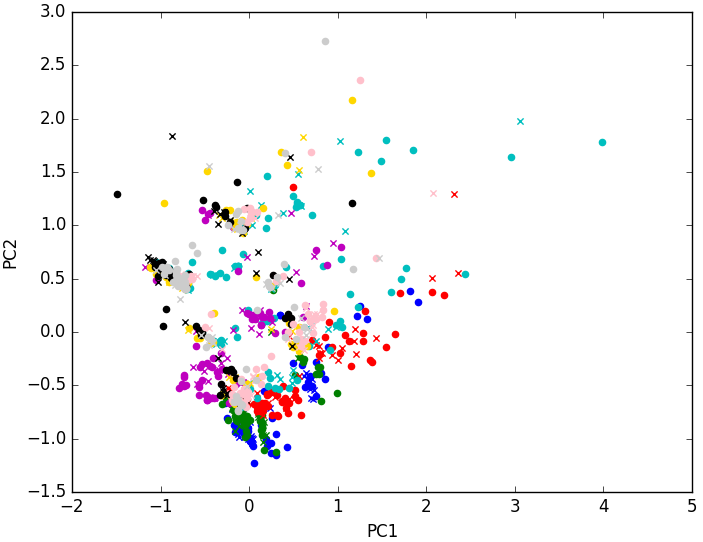
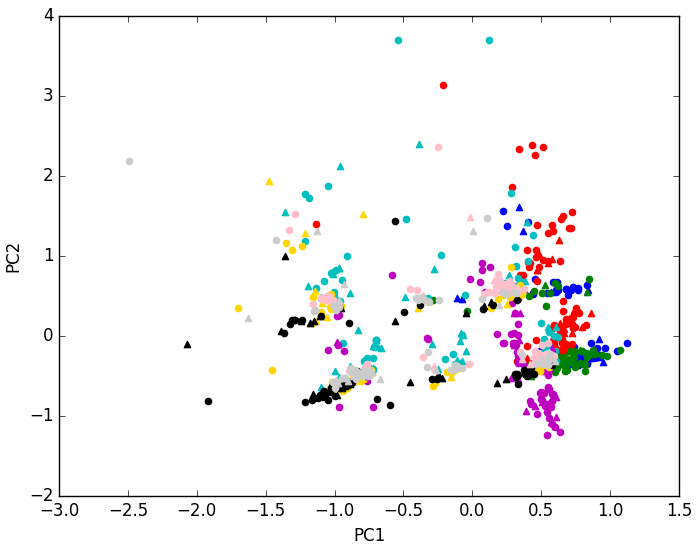
mas informe parte1

diff --git a/TP2/informe/parte1.tex b/TP2/informe/parte1.tex
@@ -100,9 +100,13 @@ optional arguments:
   -n N        Cantidad maxima de epochs
 \end{lstlisting}
 
-Ejemplo: 
+No hace falta especificar una cantidad máxima de épocas, por default es 100.
 
-\noindent\texttt{python hbtrain.py -p net.o -x ds/tp2\_training\_dataset.csv -n 100} \\
+Ejemplos: 
+
+\noindent\texttt{python hbtrain.py -p net.o -x ds/tp2\_training\_dataset.csv}
+
+\noindent\texttt{python hbtrain.py -p net.o -x ds/tp2\_training\_dataset.csv -n 50} \\
 
 \textbf{Para cargar datos de validación y visualizar contra los de entrenamiento:}
 
@@ -119,7 +123,7 @@ optional arguments:
 
 Ejemplo:
 
-\noindent\texttt{python hbreduction.py -p net.o -x ds/tp2\_testing\_dataset.csv} \\
+\noindent\texttt{python hbreduction.py -p net.o -x ds/tp2\_testing\_dataset.csv} 
 
 \subsubsection{Requerimientos}
 
@@ -131,19 +135,12 @@ Python:
 
 \subsection{Resultados}
 
-A continuación, se pueden observar representaciones gráficas de las posiciones en el espacio $\mathbb{R}^3$ que el modelo le asigna a cada documento, con la red entrenada con 600 datos y 300 datos de validación.
+A continuación, se pueden observar representaciones gráficas de los datos reducidos en el espacio $\mathbb{R}^3$ y $\mathbb{R}^2$ que el modelo le asigna a cada documento, con la red entrenada con 600 datos y 300 datos de validación.
 
 \subsubsection{Oja}
 
-\begin{figure}[ht!]
-	\centering
-	\includegraphics[width=0.9\linewidth]{img/parte1-vista3d-oja.png}
-
-	\caption{Vista 3d de datos reducidos a tres dimensiones con regla Oja}
-\end{figure}
-
 \begin{figure}[ht!]	
-	\begin{subfigure}[b]{0.5\textwidth}
+	\begin{subfigure}[b]{0.49\textwidth}
 		\includegraphics[width=\linewidth]{img/oja/3dim-pc1-pc2.png}
 	\end{subfigure}%
 	~
@@ -159,15 +156,24 @@ A continuación, se pueden observar representaciones gráficas de las posiciones
 	\begin{subfigure}[b]{0.5\textwidth}
 		\includegraphics[width=\linewidth]{img/oja/3dim-pc2-pc3.png}
 	\end{subfigure}%
-	\caption{Vistas de dos dimensiones}
+	\caption{Vistas de dos dimensiones con regla Oja}
 \end{figure}
-
-
-\subsubsection{Sanger}
 
 \begin{figure}[ht!]
 	\centering
-	\includegraphics[width=0.9\linewidth]{img/parte1-vista3d-sanger.png}
+	\includegraphics[width=0.8\linewidth]{img/parte1-vista3d-oja.png}
+
+	\caption{Vista 3d de datos reducidos a tres dimensiones con regla Oja}
+\end{figure}
+
+\newpage
+\subsubsection{Sanger}
+
+
+
+\begin{figure}[ht!]
+	\centering
+	\includegraphics[width=0.8\linewidth]{img/parte1-vista3d-sanger.png}
 
 	\caption{Vista 3d de datos reducidos a tres dimensiones con regla Sanger}
 \end{figure}
@@ -188,16 +194,89 @@ A continuación, se pueden observar representaciones gráficas de las posiciones
 	\begin{subfigure}[b]{0.5\textwidth}
 		\includegraphics[width=\linewidth]{img/sanger/3dim-pc2-pc3.png}
 	\end{subfigure}%
-	\caption{Vistas de dos dimensiones}
+	\caption{Vistas de dos dimensiones con regla Sanger}
+\end{figure}
+
+
+\newpage
+
+\subsection{Conclusiones}
+
+Observando las representaciones gráficas en la sección de resultados obtenidas con el modelo de red propuesto de 3 unidades de salida, podemos concluir que este modelo de red no resulta bueno para la clasificación de estos documentos. Los datos reducidos de las distintas categorías no se diferencian bien. Esto se debe a que reducimos a sólo 3 dimensiones, tenemos 9 categorías y, además, que el número de categoría de cada documento corresponde a la actividad principal de la empresa, no necesariamente la única. 
+
+Para obtener mejores resultados, proponemos un modelo de red con 9 unidades de salida. Si bien esto complica la visualización de los datos reducidos, ya que tendríamos 9 dimensiones, se puede hacer una representación gráfica en dos dimensiones de cada par de componentes principales y analizar los datos en conjunto.
+
+Con este modelo propuesto obtuvimos, por ejemplo, los siguientes resultados con Sanger, observando primero los gráficos en dos dimensiones de cada par de componentes y eligiendo posteriormente 3 componentes para visualizar en conjunto.\\
+
+\begin{figure}[ht!]	
+	\begin{subfigure}[b]{0.5\textwidth}
+		\includegraphics[width=\linewidth]{img/sanger/9dim-COLLAGE1}
+	\end{subfigure}%
+	~
+	\begin{subfigure}[b]{0.5\textwidth}
+		\includegraphics[width=\linewidth]{img/sanger/9dim-COLLAGE2}
+	\end{subfigure}%
+
+\end{figure}
+
+\begin{figure}[ht!]	
+	\begin{subfigure}[b]{0.5\textwidth}
+		\includegraphics[width=\linewidth]{img/sanger/9dim-COLLAGE3}
+	\end{subfigure}%
+	~
+	\begin{subfigure}[b]{0.5\textwidth}
+		\includegraphics[width=\linewidth]{img/sanger/9dim-COLLAGE4}
+	\end{subfigure}%
+
+\end{figure}
+
+\begin{figure}[ht!]	
+	~\centering
+	\begin{subfigure}[b]{0.5\textwidth}
+		\includegraphics[width=\linewidth]{img/sanger/9dim-COLLAGE5}
+	\end{subfigure}%
+	\caption{Vistas de dos dimensiones con regla Sanger}
+\end{figure}
+
+
+\begin{figure}[ht!]	
+	\begin{subfigure}[b]{0.5\textwidth}
+		\includegraphics[width=\linewidth]{img/sanger/9dim-pc5-pc7.png}
+	\end{subfigure}%
+	~
+	\begin{subfigure}[b]{0.5\textwidth}
+		\includegraphics[width=\linewidth]{img/sanger/9dim-pc5-pc8.png}
+	\end{subfigure}%
+
+\end{figure}
+
+\begin{figure}[ht!]	
+	~\centering
+	\begin{subfigure}[b]{0.5\textwidth}
+		\includegraphics[width=\linewidth]{img/sanger/9dim-pc7-pc8.png}
+	\end{subfigure}%
+	\caption{Vistas elegidas de dos dimensiones con regla Sanger con componentes principales 5, 7 y 8}
+\end{figure}
+
+
+\begin{figure}[ht!]
+	\centering
+	\includegraphics[width=0.85\linewidth]{img/parte1-vista3d-sanger-9dim1.png}
+
+\end{figure}
+
+\begin{figure}[ht!]
+	\centering
+	\includegraphics[width=0.85\linewidth]{img/parte1-vista3d-sanger-9dim2.png}
+
+\end{figure}
+
+\begin{figure}[ht!]
+	\centering
+	\includegraphics[width=0.85\linewidth]{img/parte1-vista3d-sanger-9dim3.png}
+
 \end{figure}
 
 
 
-\subsection{Conslusiones}
-
-Observando las representaciones gráficas en la sección de resultados de los datos reducidos obtenidos con el modelo de red propuesto de 3 unidades de salida, podemos concluir que este modelo de red no resulta bueno para la clasificación de estos documentos. Los datos reducidos de las distintas categorías no se diferencian bien. Esto se debe a que reducimos a sólo 3 dimensiones, tenemos 9 categorías y, además, que el número de categoría de cada documento corresponde a la actividad principal de la empresa, no necesariamente la única. 
-
-Para obtener mejores resultados, proponemos un modelo de red con 9 unidades de salida. Si bien esto complica la visualización de los datos reducidos, ya que tendríamos 9 dimensiones, se puede hacer una representación gráfica en dos dimensiones de cada par de componentes principales y analizar los datos en conjunto.
-
-
-
+Se puede observar que obtuvimos una mejora respecto a la reducción de 3 dimensiones, en estos últimos resultados los datos reducidos de las distintas categorías se pueden diferenciar mejor en forma de ''nubes''.

diff --git a/TP2/tests1.py b/TP2/tests1.py
@@ -12,7 +12,7 @@ fs, ls =  loader.LoadData("ds/tp2_training_dataset.csv")
 epochs = 500
 lrcons = 0.07
 eps = 0.05
-noutputs = 3
+noutputs = 9
 
 HB = HebbianNN(len(fs[0]), noutputs, 0.5)
 train_fs = fs[:600]
@@ -40,7 +40,7 @@ reduced_ds_val = [ [data[0]] + data[1].tolist() for data in zip(ls[600:],outputs
 
 # 3d
 
-plot3d(reduced_ds_train, reduced_ds_val)
+plot3d(reduced_ds_train, reduced_ds_val,1,2,3)
 
 # plots 2d
 
@@ -51,12 +51,16 @@ data_x_cat_val = get_data_x_cat(reduced_ds_val)
 
 
 for i in range(1,noutputs+1):
-    for j in range(i+1,noutputs+1):
+    for j in range(i,noutputs+1):
         f, axarr = plt.subplots(1,1)
         plot2d(data_x_cat, data_x_cat_val, axarr, i, j)
-        plt.savefig('2dplots/oja/pc'+str(i)+'-pc'+str(j)+'.png')
+        plt.savefig('2dplots/oja/9dim-pc'+str(i)+'-pc'+str(j)+'.png')
         plt.close(f)
 
+rawinput = raw_input("Ingrese 3 enteros separados por espacios correspondientes a componentes principales que desea visualizar: ")
+pcs = [int(x) for x in rawinput.split()]
+
+plot3d(reduced_ds_train, reduced_ds_val,pcs[0],pcs[1],pcs[2])
 
 # Sanger
 
@@ -80,7 +84,7 @@ outputs_val = np.array([np.dot(x.transpose(), we) for x in val_fs])
 reduced_ds_val = [ [data[0]] + data[1].tolist() for data in zip(ls[600:],outputs_val) ]
 
 # 3d
-plot3d(reduced_ds_train, reduced_ds_val)
+plot3d(reduced_ds_train, reduced_ds_val,1,2,3)
 
 ## plots 2d
 
@@ -90,9 +94,15 @@ data_x_cat_val = get_data_x_cat(reduced_ds_val)
 
 
 for i in range(1,noutputs+1):
-    for j in range(i+1,noutputs+1):
+    for j in range(i,noutputs+1):
         f, axarr = plt.subplots(1,1)
         plot2d(data_x_cat, data_x_cat_val, axarr, i, j)
-        plt.savefig('2dplots/sanger/pc'+str(i)+'-pc'+str(j)+'.png')
+        plt.savefig('2dplots/sanger/9dim-pc'+str(i)+'-pc'+str(j)+'.png')
         plt.close(f)
 
+## plots3d elegidos
+
+rawinput = raw_input("Ingrese 3 enteros separados por espacios correspondientes a componentes principales que desea visualizar: ")
+pcs = [int(x) for x in rawinput.split()]
+
+plot3d(reduced_ds_train, reduced_ds_val,pcs[0],pcs[1],pcs[2])

diff --git a/TP2/hbplot.py b/TP2/hbplot.py
@@ -14,7 +14,7 @@ def get_data_x_cat(reduced_ds):
     return data_x_cat
 
 
-def plot3d(reduced_ds_train, reduced_ds_val):
+def plot3d(reduced_ds_train, reduced_ds_val, i, j, k):
     colors = ['b', 'g', 'r', 'c', 'm', 'gold', 'k', 'pink', '0.8']        
     fig = plt.figure()
     ax = fig.add_subplot(111, projection='3d')
@@ -22,16 +22,16 @@ def plot3d(reduced_ds_train, reduced_ds_val):
     data_x_cat = get_data_x_cat(reduced_ds_train)
 
     for c in range(0,9):
-        ax.scatter(data_x_cat[c+1][1], data_x_cat[c+1][2], data_x_cat[c+1][3], marker='o', s=30, c=colors[c],label='cat'+ str(c + 1) + ' train', edgecolors='none')
+        ax.scatter(data_x_cat[c+1][i], data_x_cat[c+1][j], data_x_cat[c+1][k], marker='o', s=30, c=colors[c],label='cat'+ str(c + 1) + ' train', edgecolors='none')
 
     data_x_cat = get_data_x_cat(reduced_ds_val)
 
     for c in range(0,9):
-        ax.scatter(data_x_cat[c+1][1], data_x_cat[c+1][2], data_x_cat[c+1][3], marker='^', s=30, c=colors[c], label='cat'+ str(c + 1) + ' val',edgecolors='none')
+        ax.scatter(data_x_cat[c+1][i], data_x_cat[c+1][j], data_x_cat[c+1][k], marker='^', s=30, c=colors[c], label='cat'+ str(c + 1) + ' val',edgecolors='none')
 
-    ax.set_xlabel('PC1')
-    ax.set_ylabel('PC2')
-    ax.set_zlabel('PC3')
+    ax.set_xlabel('PC'+str(i))
+    ax.set_ylabel('PC'+str(j))
+    ax.set_zlabel('PC'+str(k))
 
     plt.legend(numpoints=1,ncol=6,shadow=True, fancybox=True)
 

diff --git a/TP2/hbtrain.py b/TP2/hbtrain.py
@@ -6,12 +6,12 @@ from data_loader import DataLoader
 
 
 def saveAs(saveIn, obj):
-	print "Guardando la red en %s" % saveIn
+	print "Guardando en %s" % saveIn
 	with open(saveIn, 'wb') as f:
 		cPickle.dump(obj, f, protocol=cPickle.HIGHEST_PROTOCOL)
 
 def load(loadFrom):
-	print "Cargando red desde %s" % loadFrom
+	print "Cargando desde %s" % loadFrom
 	with open(loadFrom, 'rb') as f:
 		return cPickle.load(f)
 
@@ -23,26 +23,20 @@ parser = argparse.ArgumentParser(description='Parametros de la red')
 parser.add_argument('-p', type=str,
                     help='Ruta del archivo de salida para guardar la red', required=True)
 
-parser.add_argument('-x', type=str, default=1,
+parser.add_argument('-x', type=str, 
                     help='Ruta de dataset de entrenamiento', required=True)
 
-parser.add_argument('-n', type=int, default=1,
+parser.add_argument('-n', type=int, default=100,
                     help='Cantidad maxima de epochs', required=False)
 
 args = parser.parse_args()
 
 params_file = args.p
 input_file = args.x
-
+epochs = args.n
 
 loader = DataLoader()
 fs, ls =  loader.LoadData(args.x)
-
-
-if args.n:
-	epochs = args.n
-else:
-	epochs = 100
 
 train_ls = ls
 train_fs = fs

diff --git a/TP2/hbreduction.py b/TP2/hbreduction.py
@@ -7,12 +7,12 @@ from hbplot import plot3d, plot2d, get_data_x_cat
 
 
 def saveAs(saveIn, obj):
-	print "Guardando la red en %s" % saveIn
+	print "Guardando en %s" % saveIn
 	with open(saveIn, 'wb') as f:
 		cPickle.dump(obj, f, protocol=cPickle.HIGHEST_PROTOCOL)
 
 def load(loadFrom):
-	print "Cargando red desde %s" % loadFrom
+	print "Cargando desde %s" % loadFrom
 	with open(loadFrom, 'rb') as f:
 		return cPickle.load(f)
 
@@ -41,7 +41,7 @@ ds = loader.LoadRawData(input_file)
 reduced_ds_test = HB.reduce(HB.weights_oja(),ds)
 reduced_ds_train = load("oja_reduced_ds")
 
-plot3d(reduced_ds_train, reduced_ds_test)
+plot3d(reduced_ds_train, reduced_ds_test,1,2,3)
 
 data_x_cat = get_data_x_cat(reduced_ds_train)
 data_x_cat_test = get_data_x_cat(reduced_ds_test)
@@ -57,7 +57,7 @@ plt.show()
 reduced_ds_test = HB.reduce(HB.weights_sanger(),ds)
 reduced_ds_train = load("sanger_reduced_ds")
 
-plot3d(reduced_ds_train, reduced_ds_test)
+plot3d(reduced_ds_train, reduced_ds_test,1,2,3)
 
 data_x_cat = get_data_x_cat(reduced_ds_train)
 data_x_cat_test = get_data_x_cat(reduced_ds_test)
